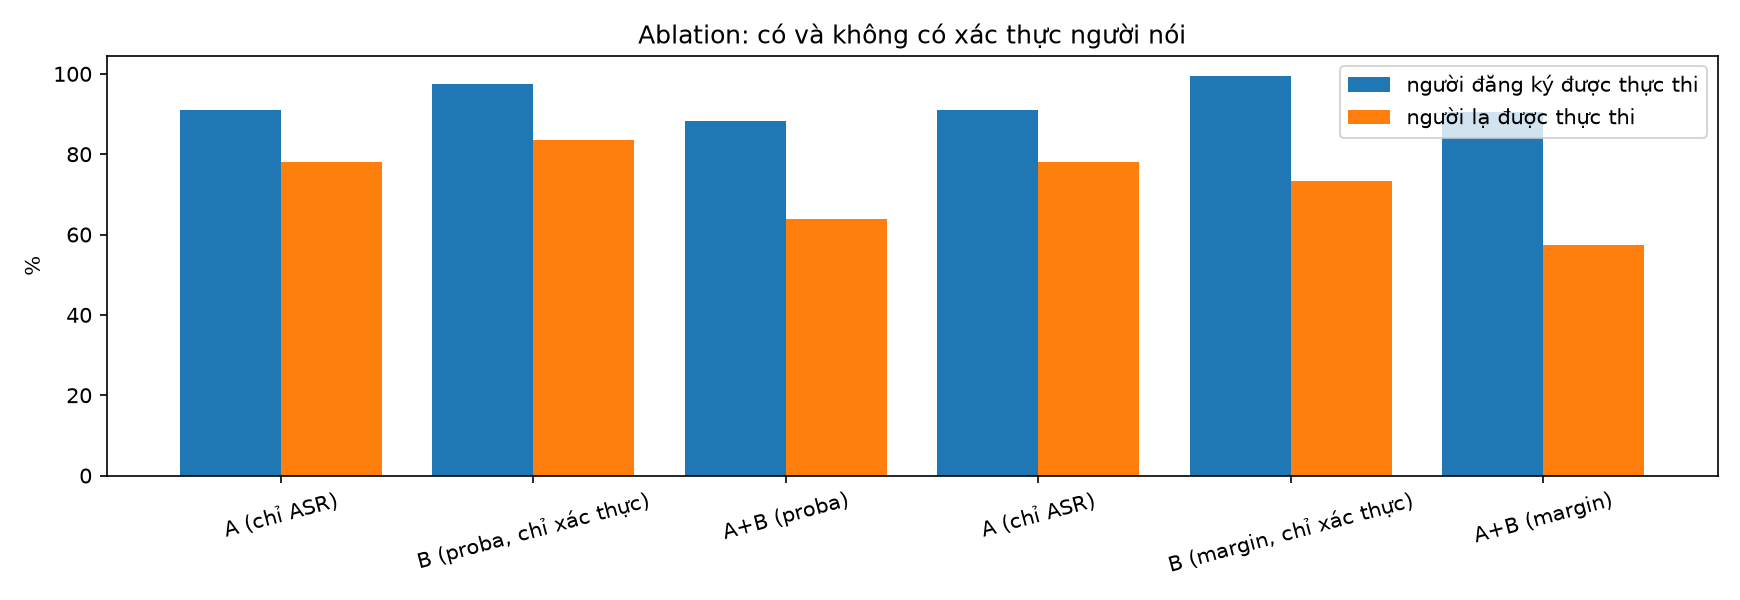
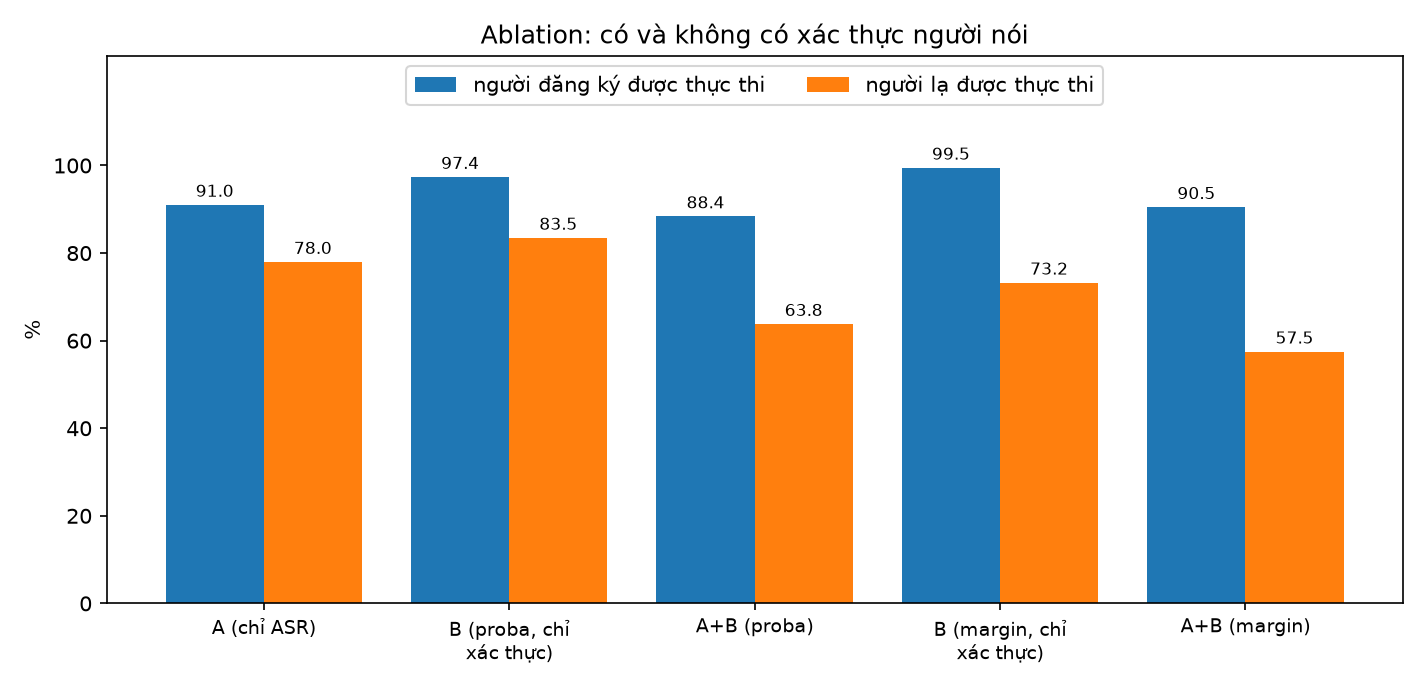
fix eval_ablation.py

diff --git a/src/eval_ablation.py b/src/eval_ablation.py
@@ -2,18 +2,24 @@
 """
 eval_ablation.py - Ablation cho câu 1.4: hệ thống CÓ và KHÔNG có xác thực người nói.
 
-Chạy:  python src/eval_ablation.py [--asr-model phowhisper-small] [--asr-results file1.csv file2.csv]
+Chạy (gõ đúng như dưới đây, KHÔNG gõ dấu ngoặc vuông):
+    python src/eval_ablation.py
+    python src/eval_ablation.py --asr-model phowhisper-small
+    python src/eval_ablation.py --asr-results models/asr_eval/results_phowhisper-small.csv models/asr_eval_simple/results_phowhisper-small.csv
+Các tham số --asr-model và --asr-results đều tùy chọn.
 
-Hai cấu hình:
+Ba cấu hình:
   A   : chỉ nhận dạng lệnh (PhoWhisper). Lệnh nhận đúng là được thực thi, bất kể ai nói.
+  B   : chỉ xác thực người nói (không quan tâm lệnh đúng hay sai).
   A+B : nhận dạng lệnh + xác thực người nói. Chỉ thực thi khi lệnh đúng VÀ là người đăng ký.
+Cấu hình A không phụ thuộc phương pháp xác thực nên chỉ được tính và vẽ một lần;
+B và A+B được tính riêng cho từng phương pháp (proba, margin, ...).
 
 Cần biết lệnh của mỗi file có được nhận dạng đúng không. Script đọc thẳng results_<mô hình>.csv do
 eval_asr.py ghi (cột `path` và `ok_exact`), mặc định models/asr_eval*/results_<--asr-model>.csv
 (nên chạy eval_asr.py với --out khác nhau cho testset và --simple để hai lần chạy không ghi đè nhau).
 Khớp file theo 2 thành phần cuối của đường dẫn (thư mục/tên file) nên không đụng nhau giữa các lệnh.
 Nếu chưa có file nào, script giả định ASR đúng 100% (chỉ đo riêng tác dụng của xác thực).
-Ba cấu hình: A (chỉ ASR), B (chỉ xác thực người nói), A+B.
 
 Hai chỉ số chính:
   - Người lạ được thực thi (càng thấp càng tốt)   = rủi ro bảo mật
@@ -25,6 +31,7 @@ import argparse
 import csv
 import glob
 import json
+import textwrap
 from pathlib import Path, PurePosixPath
 
 import matplotlib
@@ -52,6 +59,28 @@ def load_asr_results(paths):
                 ok = row.get("ok_exact", row.get("command_ok", ""))
                 out[key_of(row.get("path", row.get("file", "")))] = str(ok).strip().lower() in ("1", "true", "yes")
     return out or None
+
+
+def plot_ablation(rows, path):
+    """Biểu đồ cột: người đăng ký và người lạ được thực thi theo từng cấu hình."""
+    labels = [textwrap.fill(c, 16) for c, _ in rows]
+    x = np.arange(len(rows))
+    fig, ax = plt.subplots(figsize=(1.5 * len(rows) + 2, 4.6))
+    b1 = ax.bar(x - 0.2, [(r["enrolled_executed"] or 0) * 100 for _, r in rows], 0.4,
+                label="người đăng ký được thực thi")
+    b2 = ax.bar(x + 0.2, [(r["stranger_executed"] or 0) * 100 for _, r in rows], 0.4,
+                label="người lạ được thực thi")
+    ax.bar_label(b1, fmt="%.1f", fontsize=8, padding=2)
+    ax.bar_label(b2, fmt="%.1f", fontsize=8, padding=2)
+    ax.set_xticks(x, labels, fontsize=9)
+    ax.set_ylabel("%")
+    ax.set_ylim(0, 125)
+    ax.set_yticks(range(0, 101, 20))
+    ax.set_title("Ablation: có và không có xác thực người nói")
+    ax.legend(loc="upper center", ncol=2)
+    fig.tight_layout()
+    fig.savefig(path, dpi=150)
+    plt.close(fig)
 
 
 def main():
@@ -87,36 +116,40 @@ def main():
     report = {"asr_assumed_perfect": asr is None, "n_enrolled": int(is_enr.sum()),
               "n_stranger": int((~is_enr).sum()), "configs": {}}
     rows = []
+
+    def rates(accept):
+        return {"enrolled_executed": float(np.mean(accept[is_enr])) if is_enr.any() else None,
+                "stranger_executed": float(np.mean(accept[~is_enr])) if (~is_enr).any() else None}
+
+    # A (chỉ ASR) không phụ thuộc phương pháp xác thực nên chỉ tính một lần.
+    res = rates(cmd_ok)
+    report["configs"]["A (chỉ ASR)"] = res
+    rows.append(("A (chỉ ASR)", res))
+
     for m, model in bundle["models"].items():
         names, sc = score_with(model, X, m)
         verified = (names != UNKNOWN) & (sc >= bundle["thresholds"][m])
-        for cfg, accept in (("A (chỉ ASR)", cmd_ok), (f"B ({m}, chỉ xác thực)", verified), (f"A+B ({m})", cmd_ok & verified)):
-            res = {"enrolled_executed": float(np.mean(accept[is_enr])) if is_enr.any() else None,
-                   "stranger_executed": float(np.mean(accept[~is_enr])) if (~is_enr).any() else None}
-            if cfg.startswith("A+B"):
-                res["enrolled_blocked_by_speaker"] = (
-                    float(np.mean((cmd_ok & ~verified)[is_enr])) if is_enr.any() else None)
-            report["configs"][cfg] = res
-            rows.append((cfg, res))
 
-    print(f"\n{'cấu hình':22s} {'người đúng được chạy':>22s} {'người lạ được chạy':>20s}")
+        cfg = f"B ({m}, chỉ xác thực)"
+        res = rates(verified)
+        report["configs"][cfg] = res
+        rows.append((cfg, res))
+
+        cfg = f"A+B ({m})"
+        res = rates(cmd_ok & verified)
+        res["enrolled_blocked_by_speaker"] = (
+            float(np.mean((cmd_ok & ~verified)[is_enr])) if is_enr.any() else None)
+        report["configs"][cfg] = res
+        rows.append((cfg, res))
+
+    print(f"\nSố câu: người đăng ký = {report['n_enrolled']}, người lạ = {report['n_stranger']}")
+    print(f"\n{'cấu hình':26s} {'người đúng được chạy':>22s} {'người lạ được chạy':>20s}")
     for cfg, r in rows:
         f = lambda v: "-" if v is None else f"{v * 100:.1f}%"
-        print(f"{cfg:22s} {f(r['enrolled_executed']):>22s} {f(r['stranger_executed']):>20s}")
+        print(f"{cfg:26s} {f(r['enrolled_executed']):>22s} {f(r['stranger_executed']):>20s}")
 
     FIG_DIR.mkdir(exist_ok=True)
-    labels = [c for c, _ in rows]
-    x = np.arange(len(rows))
-    fig, ax = plt.subplots(figsize=(1.6 * len(rows) + 2, 4))
-    ax.bar(x - 0.2, [(r["enrolled_executed"] or 0) * 100 for _, r in rows], 0.4, label="người đăng ký được thực thi")
-    ax.bar(x + 0.2, [(r["stranger_executed"] or 0) * 100 for _, r in rows], 0.4, label="người lạ được thực thi")
-    ax.set_xticks(x, labels, rotation=15)
-    ax.set_ylabel("%")
-    ax.set_title("Ablation: có và không có xác thực người nói")
-    ax.legend()
-    fig.tight_layout()
-    fig.savefig(FIG_DIR / "fig11_ablation.png", dpi=150)
-    plt.close(fig)
+    plot_ablation(rows, FIG_DIR / "fig11_ablation.png")
 
     out = MODEL_PATH.parent / "ablation_report.json"
     out.write_text(json.dumps(report, ensure_ascii=False, indent=2), encoding="utf-8")
